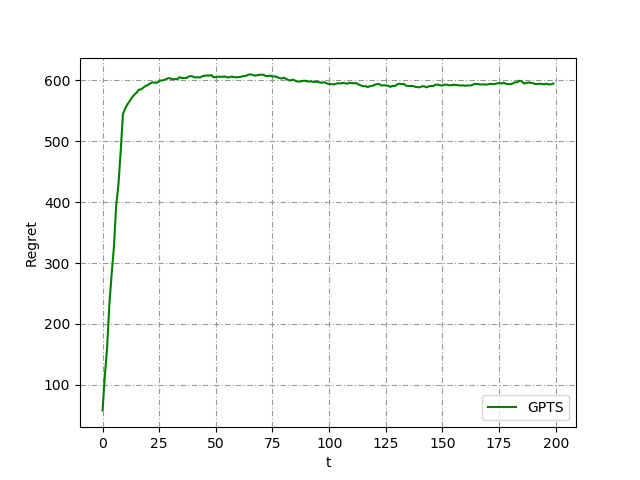
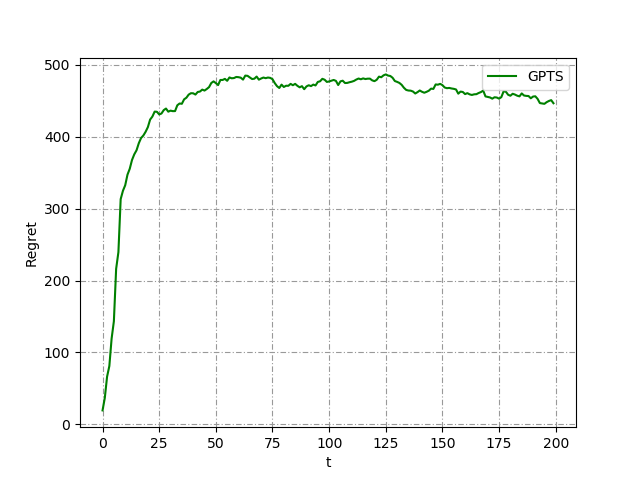
occhio al configmanager

diff --git a/configmanager.py b/configmanager.py
@@ -85,10 +85,8 @@ class ConfigManager():
         if we want to aggregate just 2 classes [0, 3]
         '''
         aggr_cr = np.zeros(self.n_arms)
-        scale = [.4, .2, .3, .1]
         for c in classes:
-            conv_rate_scaled = [self.conv_rates[c][i]*scale[c] for i in range(len(self.conv_rates[c]))]
-            aggr_cr = np.add(aggr_cr, conv_rate_scaled)
+            aggr_cr = np.add(aggr_cr, self.conv_rates[c])
         
         return np.divide(aggr_cr, len(classes))
     
@@ -140,5 +138,4 @@ def new_clicks(bid, Na=10000, p0=0.01, cc=0.44):
 
 def aggregated_new_cliks(bid, Na=10000, cc=0.44):
     return self.config["frequencies"]["class1"]*new_clicks(bid, Na, new_clicks["class1"][1])+self.config["frequencies"]["class2"]*new_clicks(bid, Na, new_clicks["class2"][1])+self.config["frequencies"]["class3"]*new_clicks(bid, Na, new_clicks["class3"][1])+self.config["frequencies"]["class4"]*new_clicks(bid, Na, new_clicks["class4"][1])
-
 

diff --git a/experiments/experiment_5_new.py b/experiments/experiment_5_new.py
@@ -45,10 +45,12 @@ class Experiment5new():
         self.ts_reward_per_experiments = []
 
         self.T = 200 # number of days
-        self.n_experiments = 10
+        self.n_experiments = 1
 
     def run(self):
-        print(self.opt)
+        print(self.cm.new_clicks)
+        
+        print(self.cm.cost_per_click)
         Benv = BidEnv2(self.bids, self.num_people)
         self.opt = Benv.compute_optimum(self.opt_pricing)[0]
         print(self.opt)
@@ -82,7 +84,7 @@ class Experiment5new():
                 
                 reward = news*self.opt_pricing-np.sum(costs)
 
-                #print('empirical opt pricing: '+str(buyer*price/news)+' theoretical opt pricing: '+str(self.opt_pricing))
+                print('reward: '+str(reward)+' ottimo teorico: '+str(self.opt))
                 past_costs[pulled_bid] = np.append(past_costs[pulled_bid], costs)
                 
                 gpts_learner.update(pulled_bid, news)

diff --git a/environment.py b/environment.py
@@ -1,7 +1,7 @@
 import numpy as np
 import yaml
 import random 
-from configmanager import ConfigManager
+from configmanager import ConfigManager, new_clicks
 '''
 environment class is defined by:
 - a number of arms
@@ -177,20 +177,18 @@ class PriEnv():
         self.n_arms = n_arms
         self.classes = classes
         self.cm = ConfigManager()
-        self.freq = self.cm.class_distribution
+
         # self.probabilities = self.cm.conv_rates
 
 
     def round(self, pulled_arm, num_clicks):
 
       for c in self.classes:
-        clicks = num_clicks[c]
+        clicks = num_clicks*self.cm.class_distribution[c]
         buyer = np.random.binomial(clicks, self.cm.conv_rates[c][pulled_arm])
       
       return buyer
 
-    def compute_optimum(self):
-      
-      for pulled_arm in range(self.n_arms):
-        
+    def compute_optimum():
+      return
 
